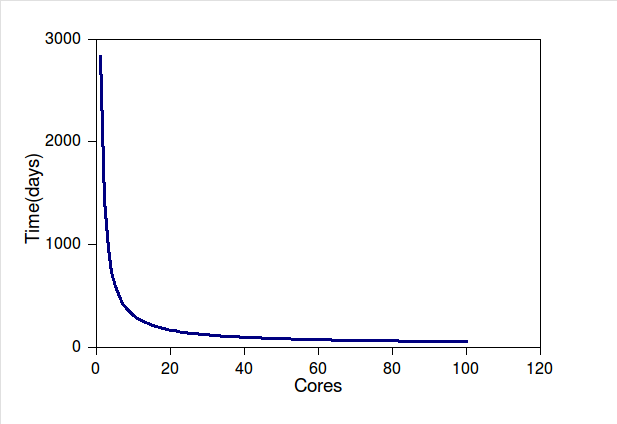
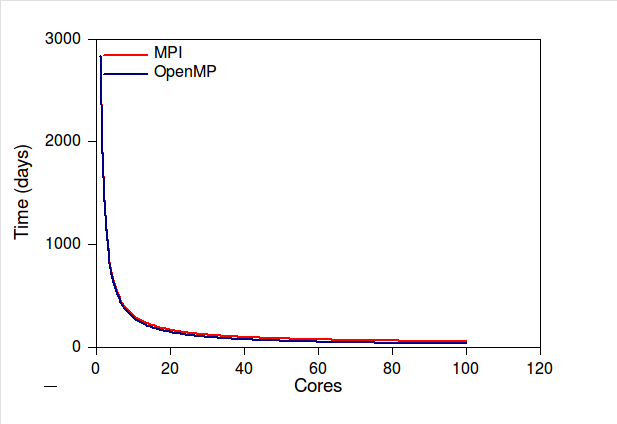
just realised its been ages since i last commited and my laptops not the most reliable

diff --git a/report/code.tex b/report/code.tex
@@ -1,8 +1,8 @@
 \section{Implemented code}
 
-Two solutions were implemented one using MPI and one using OpenMP. The MPI solution sent one image out to each core of a processor in a distributed network where as the OpenMP solution operated by splittnig up each image when running on a single shared-memory machine. The MPI solution had the advantage of being able to run on a series of distributed machines and so able to use more cores to complete faster. The OpenMP solution had the advantage of less overhead in the form of transferring the data.
+Two solutions were implemented one using MPI and one using OpenMP. The MPI solution sent one image out to each core of a processor in a distributed network where as the OpenMP solution operated on a single shared-memory machine. The MPI solution had the advantage of being able to run on a series of distributed machines and so able to use more cores to complete faster. The OpenMP solution had the advantage of less overhead in the form of transferring data.
 
-/subsection{MPI implementation}
+\subsection{MPI implementation}
 The MPI solution worked by using the following steps.
 
 \begin{enumerate}
@@ -18,53 +18,6 @@ The MPI solution worked by using the following steps.
 
 In this implemention all the sending and receiving is done syncronsously with the exception of the retriving of the processed images from the slave. This retriving is made asyncronous so that if one of the slaves finishs faster then one that was started before it there is no delay as it waits for the slave before it to finish and send its image.
 
-In the MPI implementaiton all the sending and receiving of images cannot be parrallized. The number of psfs that require sending also increases with the number of processors that are run. A test was conducted to find the time spent in these different sections by processing 16 1024 by 1024 pixel images  using a 3 by 3 psf.The computer used had a 2.0 GHz dual core proccssor and ran one master and one slave process.
-
-The parrallized section took 386.98 seconds
-
-The serilized section took 4.71 seconds
-
-The total time was 391.69 seconds
-
-Measuring the psf transfer times proved problematic as in the tests it was always less then 1 ms. This meant that even for 1000 process it would add less then 1 second of processing time and so the time increase in the serialized time due to it was ignored.
-
-The above results show that 98.90 percent of the program was parrallizeable and to process all ten million images would require roughly 68000 hours of machine time to complete or 2833 days.
-
-Using armdales law the speed up of the process can be given by
-\[
- \frac{1}{(1-P) + \frac{P}{S}}
-\]
-
-Where P is the amount of parrallizable code (98.90\% in this case) and S is the number of processors. The amount of time in days to complete the calculation can be shown in Figure~\ref{mpi-time-cores}. As can be obsereved the time for one core is 2833 days, ten cores take 310 days, 20 cores take 171 days, 50 cores take 90 days and 100 cores take 58 days. Beyond this point the speed up from additional cores becomes negligible as the unparralizable sections of code take 31 days to execute. 
-
-\begin{figure}[ht]
-	\begin{center}
-		\includegraphics[width=1.0\textwidth]{mpi-time-cores}
-	\end{center}
-	\caption{Graph showing time to process vs number of cores for the MPI solution}
-	\label{mpi-time-cores}
-\end{figure}
-
-For running the system the hardware required has to either be rented or brought. A desktop unit with four 3.0 GHz cores costs around \$1000 dollars. For rent the Amazon EC2 service appeared to be the cheapest of the avalibale options charging \$0.68 per hour for use of the High-CPU Extra Large Instance which provideds the following 
-
-\begin{itemize}
-\item 7 GB of memory
-\item 20 EC2 Compute Units (8 virtual cores with 2.5 EC2 Compute Units each)
-\item 1690 GB of instance storage
-\item 64-bit platform
-\item I/O Performance: High (1 GigaBit ethernet)
-\end{itemize}
-
-The EC2 compute units the performance is measured in is equivalent to a 1.0-1.2 GHz 2007 Opteron or 2007 Xeon processor. These processors have roughly 60\% of the processing power of one of the test computers cores. From this information the cost of hiring and buying can be calculated for a set time in which the task has to be completed. This is shown in Figure~\ref{mpi-time-money}. Times below 40 days were not shown as the costs quickly became totally infesable. It can be noted that for processing times longer then 100 days buying units becomes more economical then renting thanks to the one off cost rather then the cost per hour for the cpu time. It should be motioned that the cloud also offers 1 year of use for the much reduced price of \$1820.
-
-\begin{figure}[ht]
-	\begin{center}
-		\includegraphics[width=1.0\textwidth]{mpi-time-money}
-	\end{center}
-	\caption{Cost comparision for the MPI solution taking into account time to complete}
-	\label{mpi-time-money}
-\end{figure}
-
 \subsection{OpenMP implementation}
 The OpenMP solution worked by using the following steps.
 
@@ -77,35 +30,90 @@ The OpenMP solution worked by using the following steps.
 	\item Get the next image
 \end{enumerate}
 
-The parallelization of this program occoured in two places. First during the choosing of the image to run the Richardson-Lucy algorithem on and secondly during the convolutions. The Lucy-Richardson algorithem was written so that it used a series of for loops for the convolutions rather then a convolution function (such as that provided by the CImg libraries). This meant that for each pixel and colour channel the value could be found in its own thread and combined at the end of the convolution running potentially up to 1024x1024x3 threads. As was done with the MPI implementation a test was conducted to find the time spent in the parrallel and serial sections by processing 16 1024 by 1024 pixel images  using a 3 by 3 psf.
+The parallelization of this program occoured in two places. First during the choosing of the image to run the Richardson-Lucy algorithem on and secondly during the convolutions. The Lucy-Richardson algorithem was written so that it used a series of for loops for the convolutions rather then a convolution function (such as that provided by the CImg libraries). This meant that for each pixel and colour channel the value could be found in its own thread and combined at the end of the convolution running potentially up to 1024x1024x3 threads.
 
-The parrallized section took 370.86 seconds
+\subsection{Implementation parallisation}
 
-The serilized section took 4.90 seconds
+In the code the data only exsits stored on one hard drive and so all the loading and saving to the hard drive could not occour in parallel. In the MPI solution as all the messages went to and from the master this was also a serial bottleneck. To find out how long these sections that would have to be executed in serial were a test was conducted. Timers were first inserted around these serial sections and then the code was set processing 16 1024 by 1024 pixel images  using a 3 by 3 psf.The computer used had a 2.0 GHz dual core processor. The results of this test can be seen summarised in Table~\ref{speed}
 
-The total time was 375.6 seconds
+\begin{table}[h!]
+	\caption{Parallel and serial time for code (all time in seconds)}
+	\begin{center}
+    	\begin{tabular}{ | l | l | l | l | l |}
+    	\hline
+    	 & Serial & Parallel & Total & \% Parallel  \\ \hline
+		MPI & 4.71 & 386.98 & 391.69 & 98.8\% \\ \hline
+		OpenMP & 2.81 & 371.45 & 374.26 & 99.7\% \\ \hline
+    	\end{tabular}
+	\end{center}
+	\label{speed}
+\end{table}
 
-These results were suprising for two reasons. Firstly the serilized parts of the code was only marginally shorter then in the MPI implementation. This shows that most of the time spent in this section must be due to the loading of images from the hard drive and not the transfering of them in MPI as was initally belivied. The second suprising aspect was that the OpenMP run time was significantly shorter then the MPI programs run time. This must mean that in the parrallel sections MPI has some overhead on each image causing it to run on average 0.99 seconds slower per image or 6.2\%. Thus in this case to process 10 million images would take 65236 hours or 2718 days of processing time with 98.7\% being parralelzable. Again armsdale law was applied with the results plotted in Figure~\ref{opm-time-cores}. This figure was very similar to the one found for MPI.
+From the results it can be seen that the OpenMP implementation spent slightly less time in the serial section as was expected. Something that was not expected however was the large time reduction in the overall time of the OpenMP program with it finishing 16 seconds faster then the MPI solution. This may have been due to the extra MPI overhead or may have been caused by the optimizing compiler doing a better job with the message passing removed. From the test it was also found that each image took roughly 23 seconds to process and so to process all ten million images would require roughly 68000 hours of machine time to complete or 2833 days.
+
+Using armdales law the speed up of the process from additional cores can be given by
+\[
+ \frac{1}{(1-P) + \frac{P}{S}}
+\]
+
+Where P is the amount of parrallizable code (98.9\% and 99.7\% in this case) and S is the number of processors. The amount of time in days to complete the calculation for both implementations compared to the number of cores used can be shown in Figure~\ref{mpi-time-cores}. As can be obsereved both implementations take roughly the same time. The time for one core is 2833 days, ten cores take 310 days, 20 cores take 171 days, 50 cores take 90 days and 100 cores take 58 days. Beyond this point the speed up from additional cores becomes negligible as the unparralizable sections of code take 31 days to execute. 
 
 \begin{figure}[ht]
 	\begin{center}
 		\includegraphics[width=1.0\textwidth]{mpi-time-cores}
 	\end{center}
-	\caption{Graph showing time to process vs number of cores for the OpenMP solution}
+	\caption{Graph showing time to process vs number of cores for the solutions}
 	\label{mpi-time-cores}
 \end{figure}
 
-When the price of the system was considered the shared memeory requirement of OpenMP has to be taken into account. For a system with mulitple CPUs on one motherboard the price increases sharply. One 3 GHz quad-core processor system cost roughly \$1000, two processor cost \$4000, three processor cost \$15000 and four processors cost roughly \$50000. This cost and the run time for these systems is shown in Figure~\ref{omp-time-money}.
+For running the system the hardware required has to either be rented or brought. A desktop unit with  one 3.0 GHz quad core CPU costs around \$1000 dollars, a dual core machine costs around \$4000, a three core around \$15000 and a quad core machine costs around \$40000. For rent the Amazon EC2 service appeared to be the cheapest of the available options charging \$1.60 per hour for use of the High-CPU Extra Large Instance which provides the following 
+
+\begin{itemize}
+\item 7 GB of memory
+\item 20 EC2 Compute Units (8 virtual cores with 2.5 EC2 Compute Units each)
+\item 1690 GB of instance storage
+\item 64-bit platform
+\item I/O Performance: High (1 GigaBit ethernet)
+\end{itemize}
+
+The EC2 compute units the performance is measured in is equivalent to a 1.0-1.2 GHz 2007 Opteron or 2007 Xeon processor. These processors have roughly 60\% of the processing power of one of the test computers cores. From this information the cost of hiring and buying was calculated for a set time in which the task has to be completed. For the MPI solution both hiring amazon EC2 cores and buying multiple single CPU computers were looked at. For the OpenMP solution as shared memory was required a single machine with varing numbers of CPUs was looked at. Figure~\ref{mpi-time-money} shows the results of these calculations. Times below 40 days were not shown as the costs quickly became totally infeasible. It can be noted that for processing times longer then 100 days buying units for MPI becomes more economical then renting thanks to the one off cost rather then the cost per hour for the cpu time. It should be metioned that the cloud also offers 1 year of use for the much reduced price of \$1820.
+
+From the graph it can be seen the shared memory element of OpenMp meant that its systems are not in the same price range as MPI and so it can be discounted as a viable solution. The full working of the equations used can be found in the appendicies
 
 \begin{figure}[ht]
 	\begin{center}
 		\includegraphics[width=1.0\textwidth]{mpi-time-money}
 	\end{center}
-	\caption{Cost comparision for the Open solution taking into account time to complete}
+	\caption{Cost comparision for the solutions taking into account time to complete}
 	\label{mpi-time-money}
 \end{figure}
 
 
-\subsection{Comparison of Methods}
+\subsection{Cluster testing}
+To see how accurate the predictions of how well the code matched up with reality the MPI code was run on a cluster. 16 1024 by 1024 pixel images were processed using 1, 2, 4, 8, 16 cores. The results can be shown in Table~\ref{shit}. The basic form of Armdales law used on the theoretical results was then applied to these results with the value for the percent of code that had to run in serial varied to give the best fit. From this a value of 96.27\% was found which fit the data with an \(r^2\) value of 0.9966 showing an exceptionally strong correlation. These points and the trend-line can be seen plotted in Figure~\ref{real_data}. These results differed slightly from the previous tests that predicted a value of 98.9\%. 
 
-When the cost vs time of the two graphs are overlaid (taking the most cost effective method for the MPI solution) the difference in price of the two methods becomes clear. This is show in Figure~
+\begin{table}[h]
+	\caption{Performance of code on cluster test (all times in seconds)}
+	\begin{center}
+    	\begin{tabular}{ | l | l |}
+    	\hline
+    	Cores & Run Time  \\ \hline
+		1 & 473.36 \\ \hline
+		2 & 231.55 \\ \hline
+		4 & 140.65 \\ \hline
+		8 & 61.37 \\ \hline
+		16 & 36.34 \\ \hline
+    	\end{tabular}
+	\end{center}
+	\label{shit}
+\end{table}
+
+\begin{figure}[ht]
+	\begin{center}
+		\includegraphics[width=0.7\textwidth]{Capture}
+	\end{center}
+	\caption{Runtime vs cores for real data}
+	\label{real_data}
+\end{figure}
+
+While currently the performance of MPI code running on the cluster is slightly slower than that found to be possible by measuring IO operations I am confident that if the structure  of the MPI code was examined the causes for these slow downs that are causing the extra sections of serial execution could be found and changed so that the code could run as quickly as possible.

diff --git a/report/parallel.tex b/report/parallel.tex
@@ -4,8 +4,8 @@
 There were two key areas in which the process of deblurring the images could be devided up for parrallel execution. The first and most obvious was that each image was completely indepentednt of the others meaning that multiple images could be worked on in parrallel. The second place the work could be made parrallel was in the convolution of the images with the point spread function. This could be split up as the result of one pixel in an image being convoluted was indepented of the results of the other pixels. Unlike the images however the result of a convolution of a pixel did depend on the value of nabouring pixels. This meant that a problem occoured with how to split the image up.
 
 \subsection{Parrallelization overhead}
-If an image was convoluted by an n by n point spread function, then to calculate the value of a pixel in the image \(n^2\) points of the image would need to be known. This presented a problem for a distributed system as it meant that if each pixel was to be calculated in its own process \(n^2\) pixels would have to be transfered to the process. This problem could be reduced by transferring blocks of pixels to each process for them to transfer however it would reduce the amount performed in parrallel and still require additional transfer times. Assuming the size of the image is large compared to the size of the psf if a m by m block of pixels were transfered to each process then the number of pixels transfered to pixels output is given by \(\frac{(n+m)^2}{m^2}\).
+If an image was convoluted by an n by n point spread function, then to calculate the value of a pixel in the image \(n^2\) points of the image would need to be known. This presented a problem for a distributed system as it meant that if each pixel was to be calculated in its own process \(n^2\) pixels would have to be transfered to the process. This problem could be reduced by transferring blocks of pixels to each process for them to process however it would reduce the amount performed in parrallel and still require additional transfer time when compared to one image per process.
 
-The transfer of information could not be parallised and so this would increase the percent of the code that had to run in serial by a large amount. As according to armdales law these sections of non-parralizable code would of had an extremely large impact on the runtime of the code the image convolution was not split up using MPI. This decision was made as it would have increased the runtime and only had the potential to offer any speed increase if there were more images to process then processors.
+The transfer of information could not be parallised and so this would increase the percent of the code that had to run in serial by a large amount. As according to armdales law these sections of non-parralizable code would have an extremely large impact on the runtime of the code the image convolution was not split up using MPI. This decision was made as it would have increased the runtime and only had the potential to offer any speed increase if there were more images to process then processors.
 
-If the convolution is performed on a machine with mulitple cores and shared memory however then no extra data transfers need to take place as all the data is already present.It also reduces the amount of data transfered in giving each process one image as it does not have to be first loaded into memory on the host and then transfered to the slaves memory
+If the convolution is performed on a machine with mulitple cores and shared memory however then no extra data transfers need to take place as all the data is already present.

diff --git a/report/OMP.tex b/report/OMP.tex
@@ -3,8 +3,8 @@ OpenMP which stands for open multiprocessing is an API (Application program inte
 
 The API is specified for C, C++ and Fortran, it works with most major platforms including Linux and Windows.It also acts to provide a standard for the use of shared memory parallelisation over a range of architectures.
 
-The system works by running a single master thread until the program encounters an area of the code specified as a parallel section a simple diagram representing this can be seen in Figure~\ref{OMP}. At this point the master thread spawns a new team of threads of which it is the master. Once the thread reaches the end of the parallel section it acts as if this point is a barrier until the rest of the threads join it at which point the system returns to running only the master thread. 
+The system works by running a single master thread until the program encounters an area of the code specified as a parallel section. At this point the master thread spawns a new team of threads of which it is the master. Once the thread reaches the end of the parallel section it acts as if this point is a barrier until the rest of the threads join it at which point the system returns to running only the master thread. 
 
 The way that the tasks are split up between the threads depends on the type of parallelisation specified. The simplest is done by unrolling for / DO loops that don’t depend on the outcome of previous loops. This is the parallelisation that was used extensively in splitting up the for loops in the convolution of images for this project. The code can also be broken into sections of which each thread executes one.Inside a parallel section a section of serialized code can also be inserted if required. Parallel sections may be specified inside other parallel sections to create more threads as required.
 
-For this project one of the key differences of OpenMP is that it can not be used on distributed memory parallel systems without use of other systems (such as MPI). This means that the de-blurring would have to run on a single system increasing the minimum time that could be expected to be achieved through the limited parallelisation to the code imposed by the limit of running on a single machine.
+For this project one of the key differences of OpenMP is that it can not be used on distributed memory parallel systems without use of other systems (such as MPI). This means that the de-blurring would have to run on a single system increasing the minimum time that could be expected to be achieved through the limited parallelisation to the code imposed by the shared memory.

diff --git a/report/MPI.tex b/report/MPI.tex
@@ -1,6 +1,6 @@
 \section{Parallel programming API's}
 
 \subsection{MPI}
-MPI which stands for message passing interface is a standardized system via which large parallel programs can be created. It allows a programmer to easily write a program that can ran on distributed system allowing the program to run on a cluster computer. MPI is an API that can be used with a large number of languages including C, C++, FORTRAN and python. The MPI system is highly portable with implementations on most distributed memory architectures, it also offers high speeds as these implementations are optimized for the systems they run on.
+MPI which stands for message passing interface is a standardized system via which large parallel programs can be created. It allows a programmer to easily write a program that can run on a distributed system allowing the program to run on a cluster computer. MPI is an API that can be used with a large number of languages including C, C++, FORTRAN and python. The MPI system is highly portable with implementations on most distributed memory architectures, it also offers high speeds as these implementations are optimized for the systems they run on.
 
-MPI works by creating a large number of threads that each have a unique id. These threads are only able to communicate with each other via messages. As all interaction between threads is sent via messages it makes no difference to the program if the two threads are running on the same cpu or are connected through a local network or the internet. This is further enforced by the fact that the original MPI-1 model had no concept of shared memory.
+MPI works by creating a large number of processes that each have a unique id. These processes are only able to communicate with each other via messages. As all interaction between threads is sent via messages it makes no difference to the program if the two processes are running on the same CPU or are connected through a local network or the internet. This is further enforced by the fact that the original MPI-1 model had no concept of shared memory.

diff --git a/report/introduction.tex b/report/introduction.tex
@@ -1,3 +1,6 @@
 \section{Introduction}
 
-A sattilite has taken 10 million 1024 X 1024 double precision images of a region. Unfortunatly the images have been blurred with  
+A sattilite has taken 10 million 1024 X 1024 double precision images of a region. Unfortunatly the images have been blurred. A Richardson-Lucy deconvolution filter was believed to be able to remove the blur however taking around 25 seconds an image one processor would take five years to correct all the images. This report looks at the construction and feasablilty of using a parallel program that makes use of MPI or OpenMP to deblur the images in a fast and cost effective arrangement
+
+\subsection{Reccomendation}
+I recommend that six 3.0 Ghz quad-core machines be brought for the task costing around \$6000. Running a MPI implementation of the Richardson-Lucy deconvolution on these machines will take around 110 days to process all 10 million images. This option is a balance between time and budget that also has the bonus of providng the company with six high end computers at the end of the project that can either be reused or sold to gian back some of the invested money.

diff --git a/report/append.tex b/report/append.tex
@@ -1,0 +1,36 @@
+\section*{Appendicies}
+
+\subsection*{Parallelisation calculations }
+
+according to armdales law the fraction of time the program will take is defined by
+\[
+ (1-P) + \frac{P}{S}
+ \]
+ 
+for MPI P = 0.989, for OpenMP P = 0.997 and S = number of cores thus
+
+\[
+ MPITime = ((0.011) + \frac{0.989}{Cores})*Time
+ \]
+ 
+ and
+ 
+\[
+ OpenMPTime = ((0.003) + \frac{0.997}{Cores})*Time
+ \]
+ 
+ For calculating the cost of the systems.
+ 
+\[
+ Cost = InitalCost + CostPerDay * Time
+ \] 
+ 
+ The Time the system ran for was given by the previous equations for MPITime and OpenMPTime rearranging this to be in terms of cores gave
+ 
+\[
+Cores = \frac{0.989}{\frac{MPITime}{Time} - 0.011}
+\]
+ 
+ For the Amazon EC2 system there was no inital cost and the cost per hour was \$1.60. The \$1.60 provided a system that had twenty cores with each core running at \%80 the speed of the inital test systems. This gave a cost per day of \(1.60 * 24 * 0.8 / 20 = 1.536\).
+ 
+ This meant for the MPI solution the cost 

diff --git a/report/report.tex b/report/report.tex
@@ -1,4 +1,5 @@
 \documentclass[]{report}   % list options between brackets
+\usepackage{fullpage}
 \usepackage{amsmath}
 \usepackage{graphicx}
 \usepackage{subfig}
@@ -18,6 +19,7 @@
 \input{parallel}
 \input{code}
 \input{Conclusion}
+\include{append}
 
 \begin{thebibliography}{9}
   % type bibliography here
